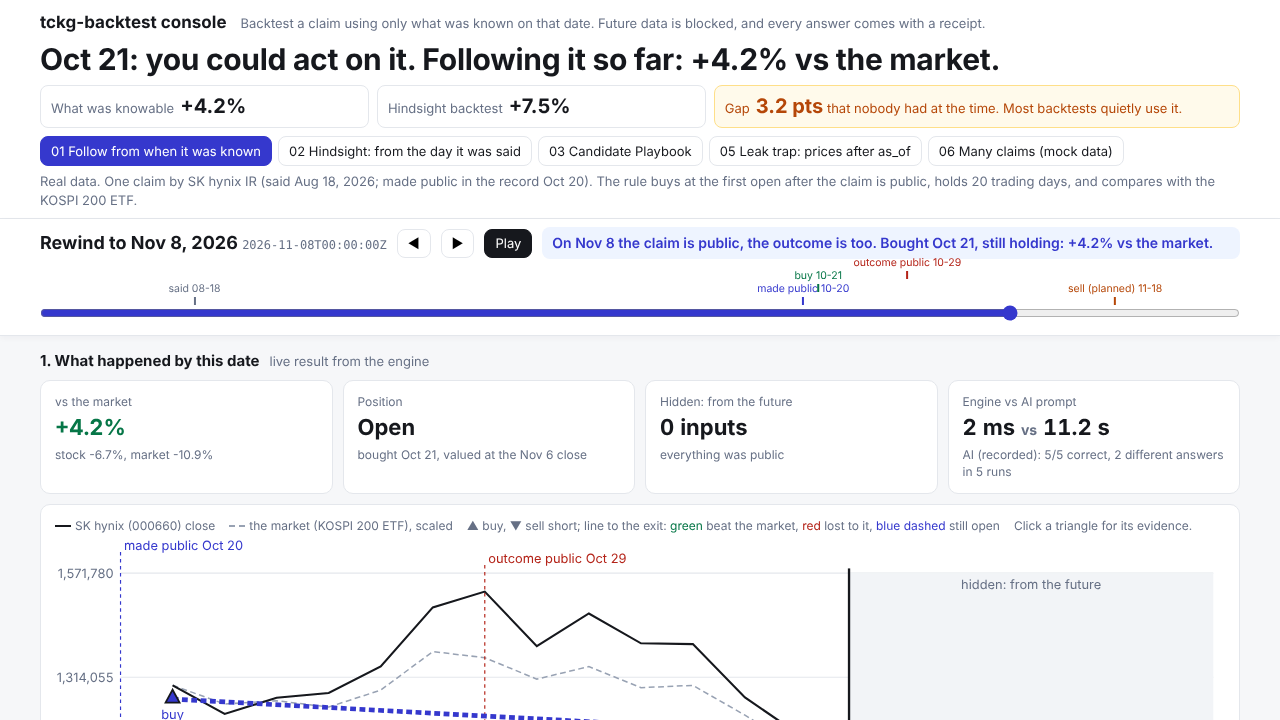
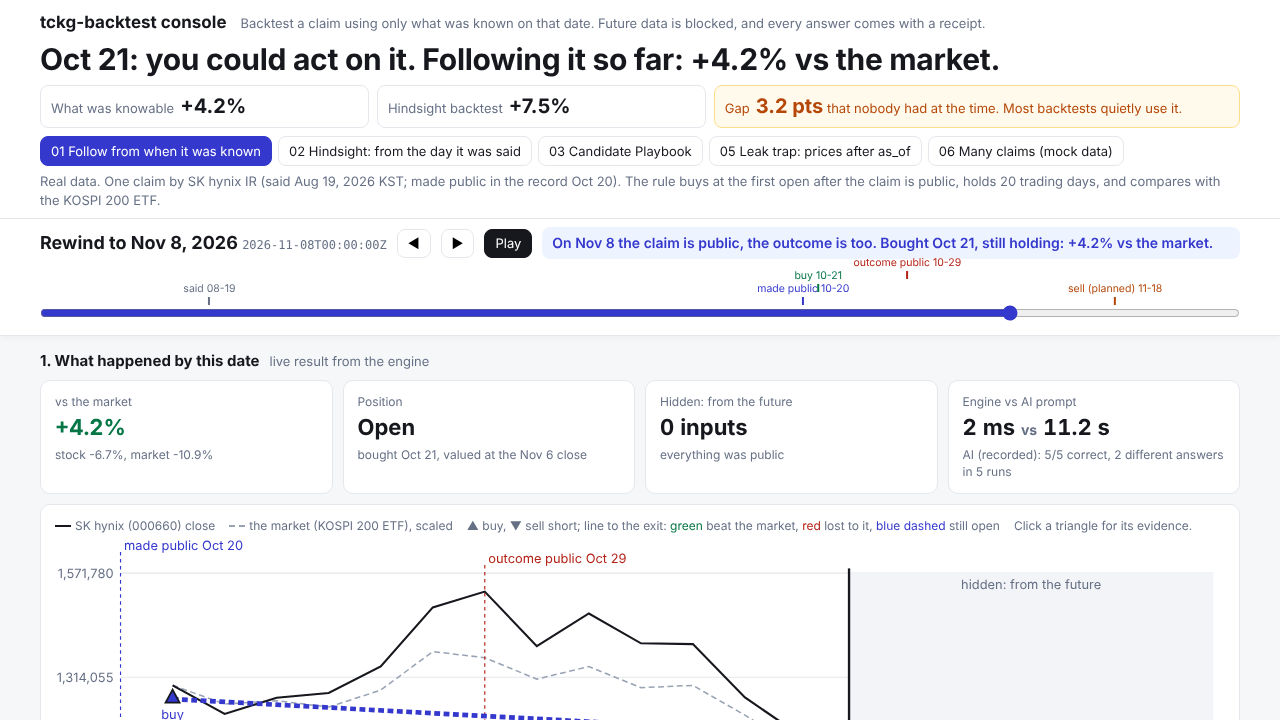
Console: grey the recorded AI runs off their as_of with a jump back; said date as the speaker's local date (KST)

Changed region(s): [[0.2812, 0.2444, 0.9688, 0.275], [0.0312, 0.275, 0.125, 0.3056], [0.125, 0.3972, 0.1875, 0.4278]]

diff --git a/tckg_backtest/console.html b/tckg_backtest/console.html
@@ -123,7 +123,7 @@ tr[data-sel]{cursor:pointer}
 
 <script>
 const $ = id => document.getElementById(id);
-let INFO, CASE = "01", IDX = 0, AS_OF = null, SEL = null, LAST = null, PLAY = null, FIVE_T = null;
+let LASTMS = null, INFO, CASE = "01", IDX = 0, AS_OF = null, SEL = null, LAST = null, PLAY = null, FIVE_T = null;
 const pct = (x, d = 2) => x == null ? "-" : (x >= 0 ? "+" : "") + (x * 100).toFixed(d) + "%";
 const cls = x => x == null ? "" : x >= 0 ? "pos" : "neg";
 const num = x => x == null ? "-" : Number(x).toLocaleString("en-US");
@@ -131,6 +131,9 @@ const day = s => s ? s.slice(0, 10) : "";
 const nice = s => new Date(day(s) + "T12:00:00Z").toLocaleDateString("en-US", {month: "short", day: "numeric", timeZone: "UTC"});
 const niceY = s => new Date(day(s) + "T12:00:00Z").toLocaleDateString("en-US", {month: "short", day: "numeric", year: "numeric", timeZone: "UTC"});
 const esc = s => String(s).replace(/[&<>"]/g, c => ({"&": "&amp;", "<": "&lt;", ">": "&gt;", '"': "&quot;"}[c]));
+// the speaker's local date: KST for the real XKRX claim (said_at 15:00Z = next day in Seoul), New York date for the mock US case
+const kst = iso => new Date(Date.parse(iso) + 9 * 3600e3).toISOString();
+const saidTxt = f => V1() ? nice(f.said) : `${niceY(kst(f.said))} (KST)`;
 const known = (iso, asOf) => Date.parse(iso) <= Date.parse(asOf);
 const C = () => INFO.cases[CASE];
 const V1 = () => C().contract === "v1";
@@ -139,7 +142,7 @@ const SESS = () => C().sessions || INFO.sessions;
 const asOfFor = d => d + (V1() ? "T22:00:00Z" : "T07:00:00Z");
 const openAt = d => Date.parse(d + (V1() ? "T13:30:00Z" : "T00:00:00Z"));
 const SCEN = {
-  "01": "Real data. One claim by SK hynix IR (said Aug 18, 2026; made public in the record Oct 20). The rule buys at the first open after the claim is public, holds 20 trading days, and compares with the KOSPI 200 ETF.",
+  "01": "Real data. One claim by SK hynix IR (said Aug 19, 2026 KST; made public in the record Oct 20). The rule buys at the first open after the claim is public, holds 20 trading days, and compares with the KOSPI 200 ETF.",
   "02": "Real data. Same claim and rule, but trading from the day it was said, before it was public. That is hindsight: the number looks better, and the proof flags it.",
   "03": "Real data. Same claim, another rule: buy once the outcome (the buyback was announced) is public, hold 5 trading days.",
   "05": "Real data plus planted fake prices after the chosen date. They are hidden from the engine, so the answer is the same as in the first scenario.",
@@ -241,7 +244,7 @@ function drawTimebar(vm) {
   const ticks = [];
   if (V1()) vm.facts.forEach(f => ticks.push([f.id.slice(3), f.known, Date.parse(f.known) - Date.parse(f.said) > 864e5 ? "var(--warn)" : "var(--grey)"]));
   else {
-    vm.facts.forEach(f => { if (f.said) ticks.push(["said", f.said, "var(--mute)"]); ticks.push([f.kind === "outcome" ? "outcome public" : "made public", f.known, f.kind === "outcome" ? "var(--bad)" : "var(--acc)"]); });
+    vm.facts.forEach(f => { if (f.said) ticks.push(["said", kst(f.said), "var(--mute)"]); ticks.push([f.kind === "outcome" ? "outcome public" : "made public", f.known, f.kind === "outcome" ? "var(--bad)" : "var(--acc)"]); });
     vm.trades.forEach(t => { ticks.push(["buy", t.entry.date, "var(--ok)"]); ticks.push([t.planned ? "sell (planned)" : "sell", t.planned || (t.exit && t.exit.date), "var(--warn)"]); });
   }
   $("track").innerHTML = ticks.filter(t => t[1]).map(([l, d, col]) => [l, d, col, sessionIdx(d) / n * w]).sort((a, b) => a[3] - b[3]).map(([l, d, col, x]) => {
@@ -296,7 +299,7 @@ function drawChart(vm) {
   // single-claim scenarios: said / made public / outcome public as flags on the chart (only those inside the range)
   if (!V1()) {
     const flags = [];
-    vm.facts.forEach(f => { if (f.said) flags.push([f.said, "said", "var(--mute)"]); flags.push([f.known, f.kind === "outcome" ? "outcome public" : "made public", f.kind === "outcome" ? "var(--bad)" : "var(--acc)"]); });
+    vm.facts.forEach(f => { if (f.said) flags.push([kst(f.said), "said", "var(--mute)"]); flags.push([f.known, f.kind === "outcome" ? "outcome public" : "made public", f.kind === "outcome" ? "var(--bad)" : "var(--acc)"]); });
     flags.filter(([d]) => sessionIdx(d) >= lo && sessionIdx(d) <= hi && day(d) >= S[lo]).forEach(([d, l, col], j) => {
       const x = X(day(d)); svg += `<line x1="${x}" x2="${x}" y1="${T - 18 + (j % 2) * 11}" y2="${H - B}" stroke="${col}" stroke-dasharray="3 3"/><text x="${Math.min(x + 3, W - R - (l.length + 7) * 6)}" y="${T - 20 + (j % 2) * 11}" font-size="11" fill="${col}">${l} ${nice(d)}</text>`; });
   }
@@ -338,7 +341,7 @@ function drawEvidence(vm) {
     return o.exit && o.exit.date < t.entry.date ? (o.excess >= 0 ? ["had beaten the market", "p-ok"] : ["had lost to the market", "p-bad"]) : ["still open then", "p-mute"]; };
   const usedLi = used.map(f => {
     const early = Date.parse(f.known) > at, late = f.said && Date.parse(f.known) - Date.parse(f.said) > 864e5;
-    return `<li><b>${esc(f.text)}</b> ${f.said ? `said ${nice(f.said)}, ` : ""}public ${nice(f.known)}
+    return `<li><b>${esc(f.text)}</b> ${f.said ? `said ${saidTxt(f)}, ` : ""}public ${nice(f.known)}
       ${early ? '<span class="pill p-bad">used before it was public (hindsight)</span>' : late ? `<span class="pill p-warn">public ${Math.round((Date.parse(f.known) - Date.parse(f.said)) / 864e5)} days after it was said: the trade waited</span>` : ""}</li>`; }).join("");
   const ex = t.exit ? `sold ${nice(t.exit.date)} at ${num(t.exit.price)}${t.reason === "opposite_call" ? ` (closed by the opposite call ${t.closedBy.slice(3)})` : ""}` : `still open, valued at the ${nice(t.end.date)} close (${num(t.end.price)})`;
   $("evidence").innerHTML = `<p class="concl">${t.dir === "up" ? "Bought" : "Sold short"} ${V1() ? "ACME" : "SK hynix"} on ${nice(t.entry.date)} at ${num(t.entry.price)}, ${ex}: <b class="${cls(t.excess)}">${pct(t.excess, 1)} vs the market</b>.</p>
@@ -435,7 +438,7 @@ async function runFive() {
     <table><tr><th>run</th><th>answer fingerprint (sha256, without the timestamp)</th><th class="n">server</th></tr>` +
     outs.map((o, i) => `<tr><td>${i + 1}</td><td class="mono">${o.response_sha256.slice(0, 32)}</td><td class="n">${o.server_ms.toFixed(2)} ms</td></tr>`).join("") +
     `</table><p class="note">Runs by itself whenever the date or scenario changes. Same request, same engine: same bytes.</p>`;
-  drawAI(ms);
+  LASTMS = ms; drawAI(ms);
 }
 
 const aiMedian = a => a.runs.map(r => r.wall_s).sort((x, y) => x - y)[Math.floor(a.runs.length / 2)];
@@ -448,7 +451,7 @@ function drawAI(ms) {
   if (!a) return;
   const xs = a.runs.map(r => (r.answer || {}).excess).filter(x => x != null), spread = xs.length ? (Math.max(...xs) - Math.min(...xs)) * 100 : null;
   const exact = aiExact(a), within = aiDistinct(a) === 1 && exact > 1 && spread != null ? ` (all within ${Math.max(spread, 0.01).toFixed(2)} pts)` : "";
-  $("ai").innerHTML = `<div class="big2"><div class="s-ref">Same question to an AI model: ${aiMedian(a).toFixed(1)} s, ${exact} different answer${exact > 1 ? "s" : ""}${within}</div>
+  const html = `<div class="big2"><div class="s-ref">Same question to an AI model: ${aiMedian(a).toFixed(1)} s, ${exact} different answer${exact > 1 ? "s" : ""}${within}</div>
     <div class="s-ok">tckg-backtest: ~${ms ? Math.round(Math.min(...ms)) : "5"} ms, 1 answer, with a receipt</div></div>
     <p class="concl">The same request as text to ${esc(a.model)} (${esc(a.prompt_kind)} prompt): <b>${aiOk(a)}/${a.runs.length} correct</b>, ${aiDistinct(a)} different answer${aiDistinct(a) > 1 ? "s" : ""} in ${a.runs.length} runs (rounded to 4 decimals), ${aiMedian(a).toFixed(1)} s median${ms ? `; the engine took ${Math.min(...ms).toFixed(1)} ms` : ""}. It answers only the default date (${nice(C().as_of)}).</p>
     <table><tr><th>run</th><th class="n">time</th><th>buy</th><th>sell</th><th>open</th><th class="n">vs the market</th><th></th></tr>` +
@@ -456,6 +459,9 @@ function drawAI(ms) {
       return `<tr><td>${r.run}</td><td class="n">${r.wall_s.toFixed(1)} s</td><td>${x.entry_date || "-"}</td><td>${x.exit_date || "-"}</td><td>${x.open == null ? "-" : x.open}</td>
       <td class="n">${x.excess == null ? '<span class="note">none</span>' : pct(x.excess)}</td><td>${r.correct ? '<span class="pill p-ok">correct</span>' : '<span class="pill p-bad">wrong</span>'}</td></tr>`; }).join("") +
     `</table><p class="note">Recorded 2026-11-09, not a live call (${esc(a.file)}). Correct = buy and sell dates match the engine and the result is within 0.05 percentage points. Runs that used future information: ${a.runs.filter(r => r.future.length).length} of ${a.runs.length}.</p>`;
+  // the recorded AI runs answer the default date only; at any other date they are not comparable
+  const off = day(AS_OF) !== day(C().as_of);
+  $("ai").innerHTML = off ? `<p class="sentence s-nt" style="margin:4px 0 8px">AI runs were recorded at ${nice(C().as_of)}; this page is at ${nice(AS_OF)}. <button class="btn" id="goDefault">Move to ${nice(C().as_of)} to compare</button></p><div style="opacity:.4">${html}</div>` : html;
 }
 
 // ---------- wiring ----------
@@ -465,7 +471,7 @@ function drawAll(out) {
   // default selection: a call that reached the record late (the point-in-time story), else the latest decision
   if (!SEL || !vm.trades.find(t => t.id === SEL))
     SEL = (vm.trades.find(t => { const f = vm.facts.find(z => z.id === t.id); return V1() && f && Date.parse(f.known) - Date.parse(f.said) > 864e5; }) || vm.trades[vm.trades.length - 1] || {}).id || null;
-  drawTimebar(vm); drawTiles(vm, out.server_ms); drawChart(vm); drawEvidence(vm); drawGraph(vm); drawProof(vm);
+  drawTimebar(vm); drawTiles(vm, out.server_ms); drawChart(vm); drawEvidence(vm); drawGraph(vm); drawProof(vm); drawAI(LASTMS);
 }
 let pending = 0;
 async function rerun() {
@@ -493,6 +499,7 @@ async function main() {
     PLAY = setInterval(() => { if (IDX >= SESS().length - 1) return stopPlay(); setIdx(IDX + step); }, 220);
   };
   const pick = e => { const el = e.target.closest("[data-sel]"); if (el && el.getAttribute("data-sel")) { SEL = el.getAttribute("data-sel"); drawAll(LAST); } };
+  $("ai").onclick = e => { if (e.target.id === "goDefault") { stopPlay(); AS_OF = C().as_of; IDX = sessionIdx(AS_OF); $("slider").value = IDX; rerun(); } };
   $("chart").onclick = pick; $("graph").onclick = pick; $("evidence").onclick = pick;
   const q = new URLSearchParams(location.search);
   if (INFO.cases[q.get("case")]) CASE = q.get("case");
